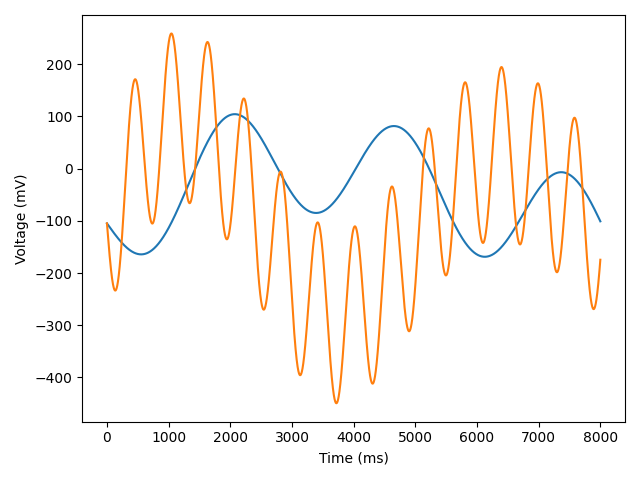
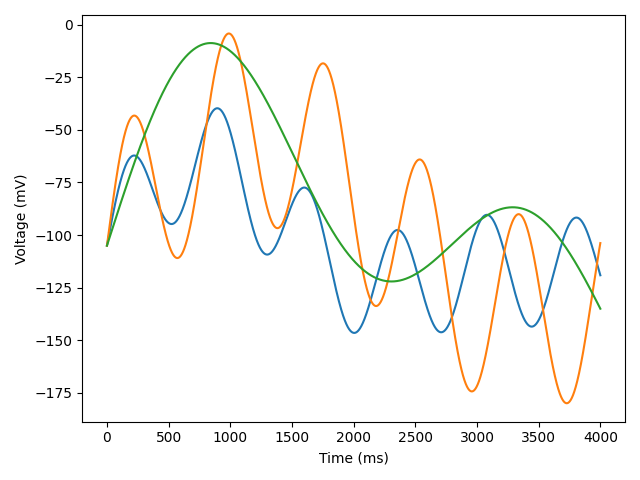
update protocol post

diff --git a/_posts/2021-06-13-bp1.md b/_posts/2021-06-13-bp1.md
@@ -14,6 +14,8 @@ In this post, I will write about my experience working with custom voltage proto
   - [Limitations of Common Protocol Design](#limitations-of-common-protocol-design)
 - [Protocol Creation](#protocol-creation)
   - [Creating the ATF file](#creating-the-atf-file)
+    - [Bug warning!](#bug-warning)
+    - [Some more examples.](#some-more-examples)
 
 # Introduction to Voltage Protocols
 The most common electrophysiology hardware systems are made by Axon Instruments and HEKA Instruments. Both come with proprietary acquisition and analysis software that are jam packed with features. In voltage clamp experiments, a sequence of voltage steps, called a *voltage protocol*, is applied, and the resulting electrical currents are recorded. The steps of a protocol are usually of three varieties: (1) a flat pulse, (2) a linear ramp, or (3) a 'train' of pulses with some specified frequency. In each, duration and/or voltage can be specified during protocol creation. As such, each step, or *epoch*, of a protocol does not change its type, but the protocol can be repeated for several iterations (*sweeps*) where the duration(s) and/or voltage(s) of one or more steps change. 
@@ -39,38 +41,45 @@ import numpy as np
 def sine_(A, x, t, C=-35.0):
     return A * np.sin(x/t) + C 
 
-# seed RNG
-np.random.seed(123)
-# random amplitudes
-A = 100*np.random.randn(6)
-# random frequencies 
-F = 1000*np.random.randn(6)
-# time points 
-t = np.arange(0, 8000, 0.5)
+def create_protocol(show=False, save=None):
+    # seed RNG
+    np.random.seed(1337)
+    # random amplitudes
+    A = 100*np.random.rand(9)
+    # random frequencies 
+    F = 1000*np.random.rand(9)
 
-# sine waves 
-sines = [t]
-sines.extend(
-        [sine_(A[i], t, F[i]) + sine_(A[i+1], t, F[i+1]) + \
-        sine_(A[i+2], t, F[i+2]) for i in range(0, 6, 3)]
-)
+    t = np.arange(0, 4000, 0.5)
+    sines = [t]
 
-# plotting 
-plt.plot(t, sines[0])
-plt.plot(t, sines[1])
-plt.ylabel("Voltage (mV)")
-plt.xlabel("Time (ms)")
-plt.tight_layout()
-plt.show()
+    sines.extend([
+        np.sum([sine_(A[i + 2*j], t, F[i + 2*j]) for i in range(3)], axis=0) for j in range(3)
+    ])
+
+    if show:
+        for s in sines[1:]:
+            plt.plot(t, s)
+        plt.ylabel("Voltage (mV)")
+        plt.xlabel("Time (ms)")
+        plt.tight_layout()
+        plt.show()
+    
+    if save:
+        sines = np.vstack(sines).T
+        print(sines.shape)
+        
+        np.savetxt(save, sines, delimiter=",")
+
+create_protocol(show=True, save="...")
 ```
 
 When we run the code above, we can see what our voltage protocol looks like.
 <p>
   <center>
     <img 
-      src=./_posts/figs/2021-6-13-figs/sine_protocol.png
+      src="https://github.com/haganenoneko/haganenoneko.github.io/blob/master/_posts/figs/2021-6-13-figs/sine_protocol.png?raw=true"
       alt="Sine wave protocol"
-      title="Sine wave protocol" width="30%" height="30%"
+      title="Sine wave protocol" width="70%" height="70%"
       style="horizontal-align:middle"
     />
   <figcaption>
@@ -80,13 +89,7 @@ When we run the code above, we can see what our voltage protocol looks like.
 </p>
 
 Next, we get the protocol ready in a single array of size T x (N + 1), where T is the number of timepoints, and N is the number of sweeps. The first column contains the timepoints of measurement, while subsequent columns contain corresponding voltages. Finally, we save this array to a CSV file. 
-```
-sines = np.vstack(sines).T
-# sines.shape = (16000, 3)
 
-save_path = "..."
-np.savetxt(save_path, sines, delimiter=",")
-```
 
 ## Creating the ATF file
 This is a separate (sub)-section because I think it's so cool, and because it's only possible due to somebody else's work (Scott W Harden). Broadly, 
@@ -96,6 +99,14 @@ This is a separate (sub)-section because I think it's so cool, and because it's 
 3. Parse each row of the CSV file as a single `string`, yielding the entire CSV file as one, large `string`
 
 We can read the CSV file using any method. I prefer using `pd.read_csv`, and then converting this to an array by calling `.values` on the resulting `DataFrame`.
+
+```
+import pandas as pd 
+
+# path to saved CSV file 
+filename = "..."
+df_data = pd.read_csv(filename, header=0).to_numpy()
+```
 
 ATF files contain a header that specifies information about the recording, such as sampling frequency, the number of sweeps, and the mode of stimulation. An example is shown below, assuming `df_data` is our custom protocol:
 
@@ -115,7 +126,6 @@ def default_header():
     "Signals="	"IN 0"
     "Time (s)"
     """.strip()
-    # "Time (s)"	"Trace #1"  "Trace #2"
     
     return ATF_HEADER
 
@@ -175,6 +185,39 @@ def create_atf(filename=r"./output.atf"):
         print("wrote", filename)
 ```
 
-It's currently 4:30AM where I am right now, so I'll leave it here for now...
+While you don't need to necessarily save the Numpy array to a CSV file to create an ATF out of it, I find that it helps to do so for downstream analysis, which I'll get into below. First, let's see what the ATF file looks like when we open it in ClampFit (Axon Instruments). 
 
-*to be continued*
+<p>
+  <center>
+    <img 
+      src="https://github.com/haganenoneko/haganenoneko.github.io/blob/master/_posts/figs/2021-6-13-figs/sine_atf.png?raw=true"
+      alt="Sine wave protocol in ClampFit 10"
+      title="Sine wave protocol in ClampFit 10" width="30%" height="30%"
+      style="horizontal-align:middle"
+    />
+  <figcaption>
+    <b> Fig. 2 - Sine wave protocol in ClampFit 10 (Axon Instruments). </b>
+  </figcaption>
+  </center>
+</p>
+
+### Bug warning!
+So, although I've managed to make several protocols in the past using the code above, I recently tried it with the example in this post, and found that I needed to add an additional column to the data `df_data` before parsing it into a single string. Otherwise, even though the ATF header contains the right information (number of sweeps), the resulting file will only contain `N-1` sweeps, where the last sweep isn't saved. Here's the fix I used to do this:
+```
+df_data = pd.read_csv(protocol_path, header=0)
+df_data.insert(df_data.shape[1], df_data.shape[1], 0.)
+df_data = df_data.values 
+```
+Where, I simply added a column of zeros to the end of `df_data`. The rest of the procedure worked fine.
+
+### Some more examples.
+Here are a couple more examples of protocols I've created using this method. 
+
+<div class="row">
+  <div class="column">
+    <img src="img_snow.jpg" alt="Snow" style="width:100%">
+  </div>
+  <div class="column">
+    <img src="img_forest.jpg" alt="Forest" style="width:100%">
+  </div>
+</div>
